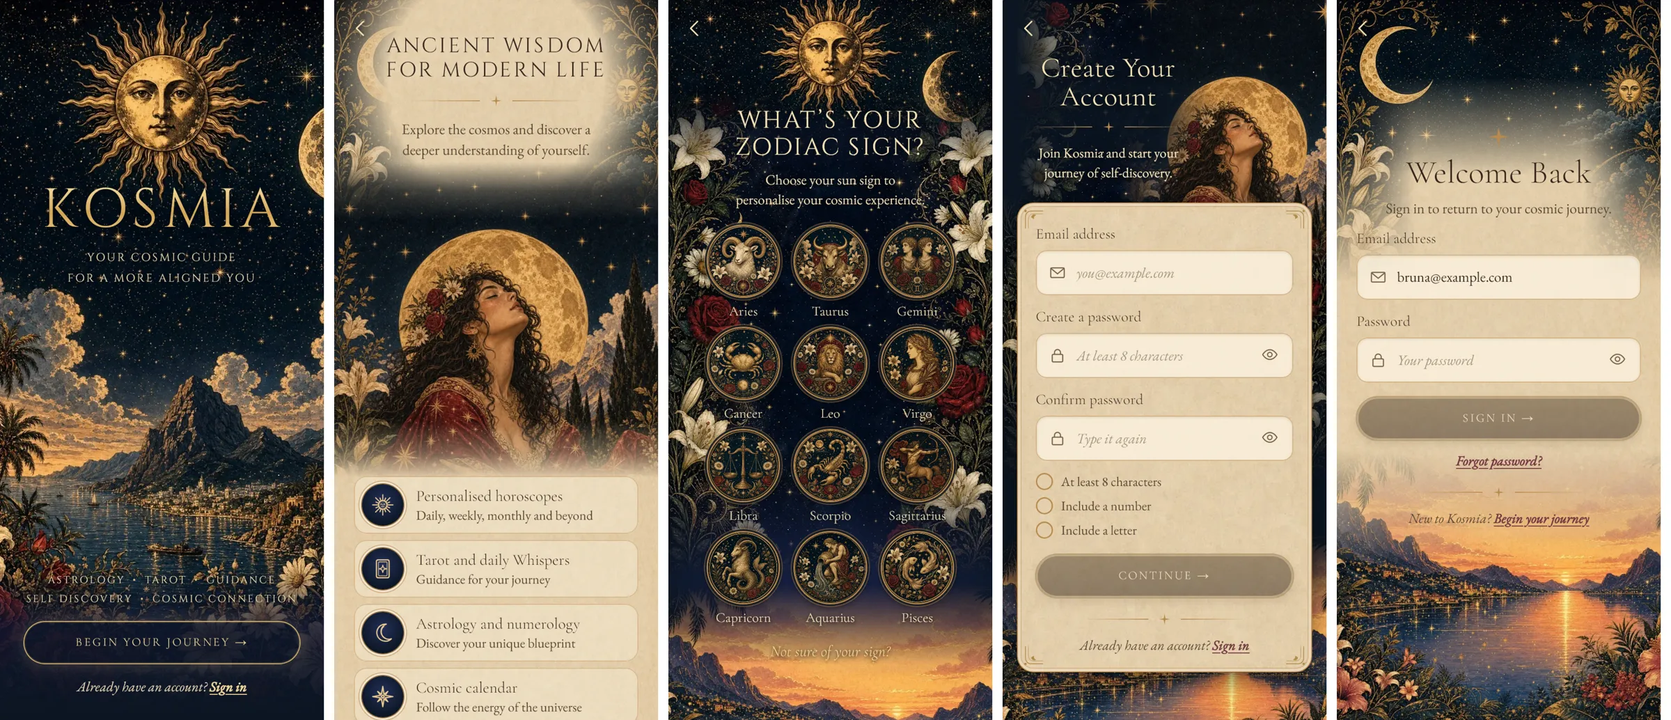
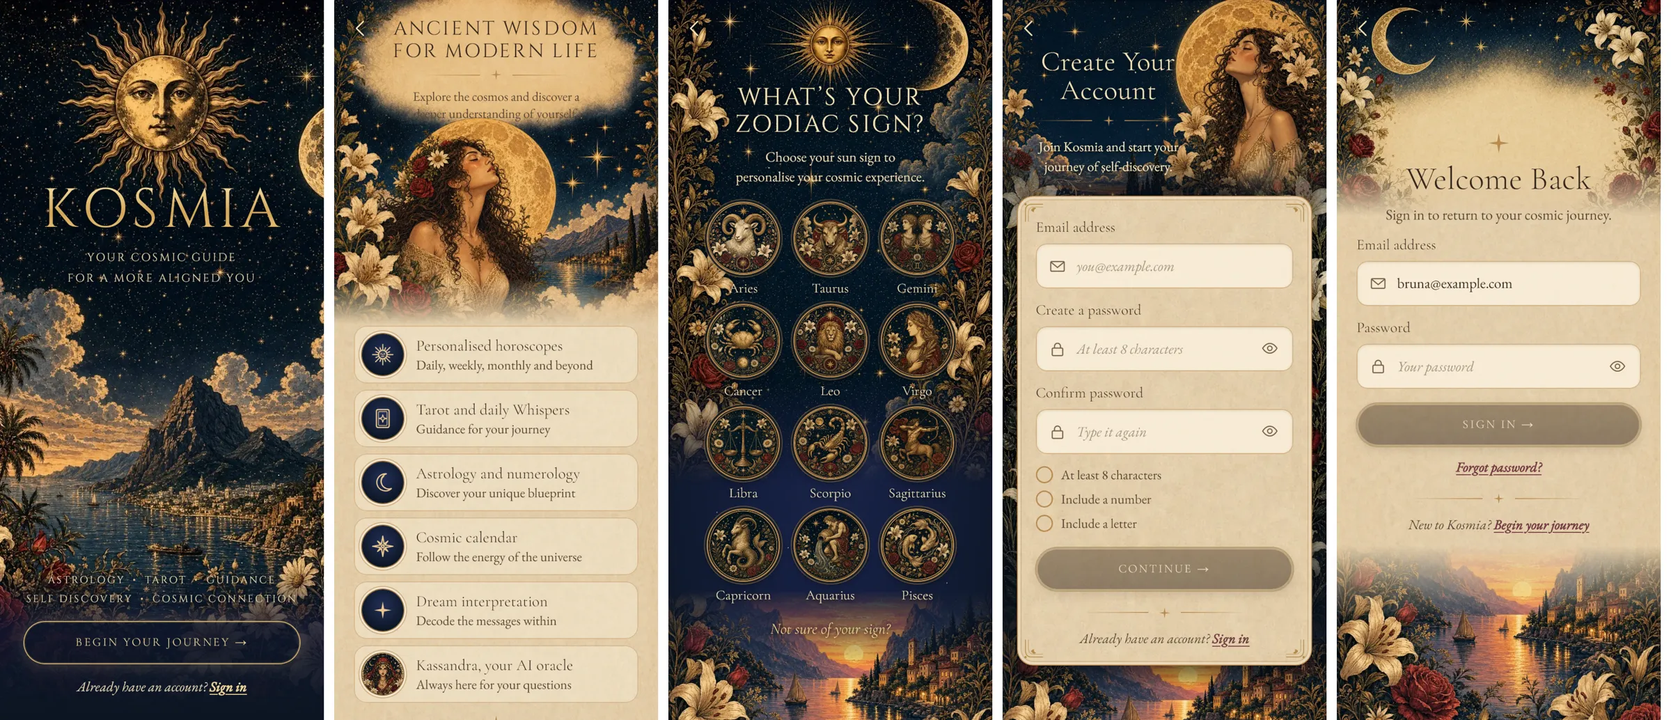
Onboarding: the five bespoke paintings after the mockups (ob-wisdom, ob-sky, ob-woman, ob-crescent, ob-sunset), guided by crops of the boards and re-encoded for phones. Ancient Wisdom opens on the woman before the moon with its title in the painted parchment cloud; the zodiac sky carries the sun, cr

diff --git a/public/art/sizes.js b/public/art/sizes.js
@@ -1,2 +1,2 @@
 /* generated by scripts/asset-manifest.mjs: [width, height, alpha] of every image under /art */
-window.KOSMIA_SIZES={"atlas/banner-calendar":[760,506,0],"atlas/banner-library":[760,506,0],"atlas/cal-scene":[1100,733,0],"atlas/ce-vignette":[480,720,0],"atlas/ds-death":[560,560,0],"atlas/ds-flying":[560,560,0],"atlas/ds-house":[560,560,0],"atlas/ds-snake":[560,560,0],"atlas/ds-water":[560,560,0],"atlas/ev-eclipse":[720,480,0],"atlas/ev-full":[720,480,0],"atlas/ev-meteor":[720,480,0],"atlas/ev-new":[720,480,0],"atlas/ev-planet":[720,480,0],"atlas/ev-quarter":[720,480,0],"atlas/ev-sun":[720,480,0],"atlas/ex-chart":[560,560,0],"atlas/ex-compat":[560,560,0],"atlas/ex-lifepath":[560,560,0],"atlas/ex-name":[560,560,0],"atlas/ex-resonance":[560,560,0],"atlas/fg-aquarius":[900,900,1],"atlas/fg-aries":[900,900,1],"atlas/fg-cancer":[900,900,1],"atlas/fg-capricorn":[900,900,1],"atlas/fg-gemini":[900,900,1],"atlas/fg-leo":[900,900,1],"atlas/fg-libra":[900,900,1],"atlas/fg-pisces":[900,900,1],"atlas/fg-sagittarius":[900,900,1],"atlas/fg-scorpio":[900,900,1],"atlas/fg-taurus":[900,900,1],"atlas/fg-virgo":[900,900,1],"atlas/hero-affinity":[1100,733,0],"atlas/hero-chart":[1100,733,0],"atlas/hero-discover":[1024,1024,0],"atlas/hero-dream":[1100,733,0],"atlas/hero-horoscope":[1024,1024,0],"atlas/hero-insights":[1100,733,0],"atlas/hero-journal":[1024,1024,0],"atlas/hero-lifepath":[1100,733,0],"atlas/hero-name":[1100,733,0],"atlas/hero-tarot":[1024,1024,0],"atlas/home-energy":[1200,800,0],"atlas/home-garden":[720,1080,0],"atlas/home-halo":[560,560,1],"atlas/home-lake":[720,1080,0],"atlas/home-sky":[1024,1536,0],"atlas/home-sun":[960,640,0],"atlas/home-vines":[720,1080,0],"atlas/ico-career":[275,320,1],"atlas/ico-family":[270,320,1],"atlas/ico-health":[281,320,1],"atlas/ico-love":[319,320,1],"atlas/ico-money":[262,320,1],"atlas/ico-overview":[282,320,1],"atlas/journal-end":[640,960,0],"atlas/kassandra-banner":[1100,733,0],"atlas/kassandra":[760,760,0],"atlas/landscape":[1100,733,0],"atlas/med-aquarius":[560,560,0],"atlas/med-aries":[560,560,0],"atlas/med-cancer":[560,560,0],"atlas/med-capricorn":[560,560,0],"atlas/med-gemini":[560,560,0],"atlas/med-leo":[560,560,0],"atlas/med-libra":[560,560,0],"atlas/med-pisces":[560,560,0],"atlas/med-sagittarius":[560,560,0],"atlas/med-scorpio":[560,560,0],"atlas/med-taurus":[560,560,0],"atlas/med-virgo":[560,560,0],"atlas/nav-discover":[314,320,1],"atlas/nav-home":[267,320,1],"atlas/nav-horoscope":[295,320,1],"atlas/nav-kassandra":[319,320,1],"atlas/nav-tarot":[270,320,1],"atlas/ne-card":[230,320,1],"atlas/ne-free":[269,320,1],"atlas/ob-final":[1200,800,0],"atlas/ob-welcome":[1024,1536,0],"atlas/owl":[1100,733,0],"atlas/plate-aquarius":[640,960,0],"atlas/plate-aries":[640,960,0],"atlas/plate-cancer":[640,960,0],"atlas/plate-capricorn":[640,960,0],"atlas/plate-gemini":[640,960,0],"atlas/plate-leo":[640,960,0],"atlas/plate-libra":[640,960,0],"atlas/plate-pisces":[640,960,0],"atlas/plate-sagittarius":[640,960,0],"atlas/plate-scorpio":[640,960,0],"atlas/plate-taurus":[640,960,0],"atlas/plate-virgo":[640,960,0],"atlas/t-history":[307,320,1],"atlas/t-journal":[315,320,1],"atlas/t-reading":[269,320,1],"atlas/t-whisper":[315,320,1],"atlas/welcome":[640,960,0],"atlas/zm-aquarius":[400,400,0],"atlas/zm-aries":[400,400,0],"atlas/zm-cancer":[400,400,0],"atlas/zm-capricorn":[400,400,0],"atlas/zm-gemini":[400,400,0],"atlas/zm-leo":[400,400,0],"atlas/zm-libra":[400,400,0],"atlas/zm-pisces":[400,400,0],"atlas/zm-sagittarius":[400,400,0],"atlas/zm-scorpio":[400,400,0],"atlas/zm-taurus":[400,400,0],"atlas/zm-virgo":[400,400,0],"cards/back":[600,900,0],"cards/cartouche":[640,640,1],"cards/crest":[144,67,1],"cards/kassandra-float":[278,300,1],"cards/kassandra":[480,480,0],"cards/ornament":[144,53,1],"cards/plaque":[1024,432,1],"cards/tarot-back":[600,900,0],"cats/aspects":[160,160,1],"cats/calendar":[160,160,1],"cats/career":[160,160,1],"cats/chart":[160,160,1],"cats/collection":[160,160,1],"cats/connections":[160,160,1],"cats/cycles":[160,160,1],"cats/deck":[160,160,1],"cats/family":[160,160,1],"cats/finance":[160,160,1],"cats/general":[160,160,1],"cats/health":[160,160,1],"cats/history":[160,160,1],"cats/insights":[160,160,1],"cats/lifepath":[160,160,1],"cats/love":[160,160,1],"cats/match":[160,160,1],"cats/moon":[160,160,1],"cats/namewithin":[160,160,1],"cats/new":[160,160,1],"cats/notifications":[160,160,1],"cats/planetary":[160,160,1],"cats/planets":[160,160,1],"cats/prefs":[160,160,1],"cats/privacy":[160,160,1],"cats/profile":[160,160,1],"cats/reflections":[160,160,1],"cats/resonance":[160,160,1],"cats/saved":[160,160,1],"cats/settings":[160,160,1],"cats/spreads":[160,160,1],"cats/today":[160,160,1],"cats/upcoming":[160,160,1],"cosmos":[768,1152,0],"deck/c1":[720,1080,0],"deck/c10":[720,1080,0],"deck/c11":[720,1080,0],"deck/c12":[720,1080,0],"deck/c13":[720,1080,0],"deck/c14":[720,1080,0],"deck/c2":[720,1080,0],"deck/c3":[720,1080,0],"deck/c4":[720,1080,0],"deck/c5":[720,1080,0],"deck/c6":[720,1080,0],"deck/c7":[720,1080,0],"deck/c8":[720,1080,0],"deck/c9":[720,1080,0],"deck/m0":[720,1080,0],"deck/m1":[720,1080,0],"deck/m10":[720,1080,0],"deck/m11":[720,1080,0],"deck/m12":[720,1080,0],"deck/m13":[720,1080,0],"deck/m14":[720,1080,0],"deck/m15":[720,1080,0],"deck/m16":[720,1080,0],"deck/m17":[720,1080,0],"deck/m18":[720,1080,0],"deck/m19":[720,1080,0],"deck/m2":[720,1080,0],"deck/m20":[720,1080,0],"deck/m21":[720,1080,0],"deck/m3":[720,1080,0],"deck/m4":[720,1080,0],"deck/m5":[720,1080,0],"deck/m6":[720,1080,0],"deck/m7":[720,1080,0],"deck/m8":[720,1080,0],"deck/m9":[720,1080,0],"deck/p1":[720,1080,0],"deck/p10":[720,1080,0],"deck/p11":[720,1080,0],"deck/p12":[720,1080,0],"deck/p13":[720,1080,0],"deck/p14":[720,1080,0],"deck/p2":[720,1080,0],"deck/p3":[720,1080,0],"deck/p4":[720,1080,0],"deck/p5":[720,1080,0],"deck/p6":[720,1080,0],"deck/p7":[720,1080,0],"deck/p8":[720,1080,0],"deck/p9":[720,1080,0],"deck/s1":[720,1080,0],"deck/s10":[720,1080,0],"deck/s11":[720,1080,0],"deck/s12":[720,1080,0],"deck/s13":[720,1080,0],"deck/s14":[720,1080,0],"deck/s2":[720,1080,0],"deck/s3":[720,1080,0],"deck/s4":[720,1080,0],"deck/s5":[720,1080,0],"deck/s6":[720,1080,0],"deck/s7":[720,1080,0],"deck/s8":[720,1080,0],"deck/s9":[720,1080,0],"deck/w1":[720,1080,0],"deck/w10":[720,1080,0],"deck/w11":[720,1080,0],"deck/w12":[720,1080,0],"deck/w13":[720,1080,0],"deck/w14":[720,1080,0],"deck/w2":[720,1080,0],"deck/w3":[720,1080,0],"deck/w4":[720,1080,0],"deck/w5":[720,1080,0],"deck/w6":[720,1080,0],"deck/w7":[720,1080,0],"deck/w8":[720,1080,0],"deck/w9":[720,1080,0],"frame-paper":[944,600,0],"frame":[1024,1536,0],"icons/aquarius":[256,256,1],"icons/aries":[256,256,1],"icons/cancer":[256,256,1],"icons/capricorn":[256,256,1],"icons/gemini":[256,256,1],"icons/leo":[256,256,1],"icons/libra":[256,256,1],"icons/pisces":[256,256,1],"icons/sagittarius":[256,256,1],"icons/scorpio":[256,256,1],"icons/taurus":[256,256,1],"icons/virgo":[256,256,1],"moons/first-quarter":[420,420,1],"moons/full-moon":[420,420,1],"moons/last-quarter":[420,420,1],"moons/new-moon":[420,420,1],"moons/waning-crescent":[420,420,1],"moons/waning-gibbous":[420,420,1],"moons/waxing-crescent":[420,420,1],"moons/waxing-gibbous":[420,420,1],"nav/calendar":[128,128,1],"nav/chart":[128,128,1],"nav/fortune":[128,128,1],"nav/home":[128,128,1],"nav/horoscopes":[128,128,1],"nav/love":[128,128,1],"nav/tarot":[128,128,1],"nav/universe":[128,128,1],"onboarding-paper":[1024,234,0],"onboarding":[1024,1536,0],"pages/compass-rose":[1024,1536,0],"pages/cover":[1024,1536,0],"pages/edge-h":[768,512,0],"pages/edge-v":[512,768,0],"pages/moon-phases":[1024,1536,0],"pages/night-sky":[1024,1536,0],"pages/pressed-roses":[1024,1536,0],"pages/sleeping-moon":[1024,1536,0],"pages/sun-face":[1024,1536,0],"plates/astro":[1024,683,0],"plates/connections":[1024,683,0],"plates/cycles":[1024,683,0],"plates/events":[1024,683,0],"plates/ins-astro":[1024,683,0],"plates/ins-numbers":[1024,683,0],"plates/ins-oracle":[1024,683,0],"plates/lifepath":[1024,683,0],"plates/locket":[1024,683,0],"plates/moon":[1024,683,0],"plates/name":[1024,683,0],"plates/natal":[1024,683,0],"plates/numbers":[1024,683,0],"plates/oracle":[1024,683,0],"plates/orrery":[1024,683,0],"plates/readings":[1024,683,0],"plates/sky":[1024,683,0],"plates/starmap":[1024,683,0],"plates/sunmoon":[1024,683,0],"plates/synastry":[1024,683,0],"scenes/aquarius":[768,1152,0],"scenes/aries":[768,1152,0],"scenes/cancer":[768,1152,0],"scenes/capricorn":[768,1152,0],"scenes/gemini":[768,1152,0],"scenes/leo":[768,1152,0],"scenes/libra":[768,1152,0],"scenes/pisces":[768,1152,0],"scenes/sagittarius":[768,1152,0],"scenes/scorpio":[768,1152,0],"scenes/taurus":[768,1152,0],"scenes/virgo":[768,1152,0],"spreads/career":[192,192,1],"spreads/celtic":[192,192,1],"spreads/love":[192,192,1],"spreads/one":[192,192,1],"spreads/ppf":[192,192,1],"spreads/scg":[192,192,1],"whispers/butterfly":[720,1080,0],"whispers/clear-crystal":[720,1080,0],"whispers/crossroads":[720,1080,0],"whispers/daily-bread":[720,1080,0],"whispers/dawn-chorus":[720,1080,0],"whispers/deep-roots":[720,1080,0],"whispers/distant-ship":[720,1080,0],"whispers/fairy-ring":[720,1080,0],"whispers/first-light":[720,1080,0],"whispers/gentle-rain":[720,1080,0],"whispers/golden-hour":[720,1080,0],"whispers/golden-key":[720,1080,0],"whispers/hidden-garden":[720,1080,0],"whispers/inner-key":[720,1080,0],"whispers/late-bloom":[720,1080,0],"whispers/lighthouse":[720,1080,0],"whispers/music-box":[720,1080,0],"whispers/nightingale":[720,1080,0],"whispers/north-star":[720,1080,0],"whispers/old-tree":[720,1080,0],"whispers/open-door":[720,1080,0],"whispers/open-path":[720,1080,0],"whispers/quiet-harvest":[720,1080,0],"whispers/quiet-moon":[720,1080,0],"whispers/returning-tide":[720,1080,0],"whispers/rising-sun":[720,1080,0],"whispers/sacred-flame":[720,1080,0],"whispers/sanctuary":[720,1080,0],"whispers/sealed-letter":[720,1080,0],"whispers/silver-thread":[720,1080,0],"whispers/snow-tracks":[720,1080,0],"whispers/stargazer":[720,1080,0],"whispers/steady-star":[720,1080,0],"whispers/stepping-stones":[720,1080,0],"whispers/still-water":[720,1080,0],"whispers/the-anchor":[720,1080,0],"whispers/the-aurora":[720,1080,0],"whispers/the-balloon":[720,1080,0],"whispers/the-bell":[720,1080,0],"whispers/the-bench":[720,1080,0],"whispers/the-birdcage":[720,1080,0],"whispers/the-blossom":[720,1080,0],"whispers/the-bridge":[720,1080,0],"whispers/the-cairn":[720,1080,0],"whispers/the-chalice":[720,1080,0],"whispers/the-comet":[720,1080,0],"whispers/the-compass":[720,1080,0],"whispers/the-dandelion":[720,1080,0],"whispers/the-eclipse":[720,1080,0],"whispers/the-ember":[720,1080,0],"whispers/the-feather":[720,1080,0],"whispers/the-fox":[720,1080,0],"whispers/the-frost":[720,1080,0],"whispers/the-hare":[720,1080,0],"whispers/the-harp":[720,1080,0],"whispers/the-hearth":[720,1080,0],"whispers/the-hedgerow":[720,1080,0],"whispers/the-heron":[720,1080,0],"whispers/the-hive":[720,1080,0],"whispers/the-hourglass":[720,1080,0],"whispers/the-kingfisher":[720,1080,0],"whispers/the-kite":[720,1080,0],"whispers/the-labyrinth":[720,1080,0],"whispers/the-lantern":[720,1080,0],"whispers/the-lotus":[720,1080,0],"whispers/the-mirror":[720,1080,0],"whispers/the-moth":[720,1080,0],"whispers/the-mountain":[720,1080,0],"whispers/the-nautilus":[720,1080,0],"whispers/the-nest":[720,1080,0],"whispers/the-orchard":[720,1080,0],"whispers/the-owl":[720,1080,0],"whispers/the-phoenix":[720,1080,0],"whispers/the-pinecone":[720,1080,0],"whispers/the-pomegranate":[720,1080,0],"whispers/the-river":[720,1080,0],"whispers/the-scales":[720,1080,0],"whispers/the-seed":[720,1080,0],"whispers/the-snail":[720,1080,0],"whispers/the-snowdrop":[720,1080,0],"whispers/the-spiral":[720,1080,0],"whispers/the-stag":[720,1080,0],"whispers/the-stile":[720,1080,0],"whispers/the-sundial":[720,1080,0],"whispers/the-swan":[720,1080,0],"whispers/the-swing":[720,1080,0],"whispers/the-tapestry":[720,1080,0],"whispers/the-waterfall":[720,1080,0],"whispers/the-weaver":[720,1080,0],"whispers/the-web":[720,1080,0],"whispers/the-well":[720,1080,0],"whispers/the-whale":[720,1080,0],"whispers/the-willow":[720,1080,0],"whispers/the-wind":[720,1080,0],"whispers/turning-wheel":[720,1080,0],"whispers/two-moons":[720,1080,0],"whispers/watchful-eye":[720,1080,0],"whispers/white-lily":[720,1080,0],"whispers/wild-geese":[720,1080,0],"whispers/wild-horse":[720,1080,0]};
+window.KOSMIA_SIZES={"atlas/banner-calendar":[760,506,0],"atlas/banner-library":[760,506,0],"atlas/cal-scene":[1100,733,0],"atlas/ce-vignette":[480,720,0],"atlas/ds-death":[560,560,0],"atlas/ds-flying":[560,560,0],"atlas/ds-house":[560,560,0],"atlas/ds-snake":[560,560,0],"atlas/ds-water":[560,560,0],"atlas/ev-eclipse":[720,480,0],"atlas/ev-full":[720,480,0],"atlas/ev-meteor":[720,480,0],"atlas/ev-new":[720,480,0],"atlas/ev-planet":[720,480,0],"atlas/ev-quarter":[720,480,0],"atlas/ev-sun":[720,480,0],"atlas/ex-chart":[560,560,0],"atlas/ex-compat":[560,560,0],"atlas/ex-lifepath":[560,560,0],"atlas/ex-name":[560,560,0],"atlas/ex-resonance":[560,560,0],"atlas/fg-aquarius":[900,900,1],"atlas/fg-aries":[900,900,1],"atlas/fg-cancer":[900,900,1],"atlas/fg-capricorn":[900,900,1],"atlas/fg-gemini":[900,900,1],"atlas/fg-leo":[900,900,1],"atlas/fg-libra":[900,900,1],"atlas/fg-pisces":[900,900,1],"atlas/fg-sagittarius":[900,900,1],"atlas/fg-scorpio":[900,900,1],"atlas/fg-taurus":[900,900,1],"atlas/fg-virgo":[900,900,1],"atlas/hero-affinity":[1100,733,0],"atlas/hero-chart":[1100,733,0],"atlas/hero-discover":[1024,1024,0],"atlas/hero-dream":[1100,733,0],"atlas/hero-horoscope":[1024,1024,0],"atlas/hero-insights":[1100,733,0],"atlas/hero-journal":[1024,1024,0],"atlas/hero-lifepath":[1100,733,0],"atlas/hero-name":[1100,733,0],"atlas/hero-tarot":[1024,1024,0],"atlas/home-energy":[1200,800,0],"atlas/home-garden":[720,1080,0],"atlas/home-halo":[560,560,1],"atlas/home-lake":[720,1080,0],"atlas/home-sky":[1024,1536,0],"atlas/home-sun":[960,640,0],"atlas/home-vines":[720,1080,0],"atlas/ico-career":[275,320,1],"atlas/ico-family":[270,320,1],"atlas/ico-health":[281,320,1],"atlas/ico-love":[319,320,1],"atlas/ico-money":[262,320,1],"atlas/ico-overview":[282,320,1],"atlas/journal-end":[640,960,0],"atlas/kassandra-banner":[1100,733,0],"atlas/kassandra":[760,760,0],"atlas/landscape":[1100,733,0],"atlas/med-aquarius":[560,560,0],"atlas/med-aries":[560,560,0],"atlas/med-cancer":[560,560,0],"atlas/med-capricorn":[560,560,0],"atlas/med-gemini":[560,560,0],"atlas/med-leo":[560,560,0],"atlas/med-libra":[560,560,0],"atlas/med-pisces":[560,560,0],"atlas/med-sagittarius":[560,560,0],"atlas/med-scorpio":[560,560,0],"atlas/med-taurus":[560,560,0],"atlas/med-virgo":[560,560,0],"atlas/nav-discover":[314,320,1],"atlas/nav-home":[267,320,1],"atlas/nav-horoscope":[295,320,1],"atlas/nav-kassandra":[319,320,1],"atlas/nav-tarot":[270,320,1],"atlas/ne-card":[230,320,1],"atlas/ne-free":[269,320,1],"atlas/ob-crescent":[1200,800,0],"atlas/ob-final":[1200,800,0],"atlas/ob-sky":[900,1350,0],"atlas/ob-sunset":[960,1440,0],"atlas/ob-welcome":[1024,1536,0],"atlas/ob-wisdom":[1024,1024,0],"atlas/ob-woman":[1200,800,0],"atlas/owl":[1100,733,0],"atlas/plate-aquarius":[640,960,0],"atlas/plate-aries":[640,960,0],"atlas/plate-cancer":[640,960,0],"atlas/plate-capricorn":[640,960,0],"atlas/plate-gemini":[640,960,0],"atlas/plate-leo":[640,960,0],"atlas/plate-libra":[640,960,0],"atlas/plate-pisces":[640,960,0],"atlas/plate-sagittarius":[640,960,0],"atlas/plate-scorpio":[640,960,0],"atlas/plate-taurus":[640,960,0],"atlas/plate-virgo":[640,960,0],"atlas/t-history":[307,320,1],"atlas/t-journal":[315,320,1],"atlas/t-reading":[269,320,1],"atlas/t-whisper":[315,320,1],"atlas/welcome":[640,960,0],"atlas/zm-aquarius":[400,400,0],"atlas/zm-aries":[400,400,0],"atlas/zm-cancer":[400,400,0],"atlas/zm-capricorn":[400,400,0],"atlas/zm-gemini":[400,400,0],"atlas/zm-leo":[400,400,0],"atlas/zm-libra":[400,400,0],"atlas/zm-pisces":[400,400,0],"atlas/zm-sagittarius":[400,400,0],"atlas/zm-scorpio":[400,400,0],"atlas/zm-taurus":[400,400,0],"atlas/zm-virgo":[400,400,0],"cards/back":[600,900,0],"cards/cartouche":[640,640,1],"cards/crest":[144,67,1],"cards/kassandra-float":[278,300,1],"cards/kassandra":[480,480,0],"cards/ornament":[144,53,1],"cards/plaque":[1024,432,1],"cards/tarot-back":[600,900,0],"cats/aspects":[160,160,1],"cats/calendar":[160,160,1],"cats/career":[160,160,1],"cats/chart":[160,160,1],"cats/collection":[160,160,1],"cats/connections":[160,160,1],"cats/cycles":[160,160,1],"cats/deck":[160,160,1],"cats/family":[160,160,1],"cats/finance":[160,160,1],"cats/general":[160,160,1],"cats/health":[160,160,1],"cats/history":[160,160,1],"cats/insights":[160,160,1],"cats/lifepath":[160,160,1],"cats/love":[160,160,1],"cats/match":[160,160,1],"cats/moon":[160,160,1],"cats/namewithin":[160,160,1],"cats/new":[160,160,1],"cats/notifications":[160,160,1],"cats/planetary":[160,160,1],"cats/planets":[160,160,1],"cats/prefs":[160,160,1],"cats/privacy":[160,160,1],"cats/profile":[160,160,1],"cats/reflections":[160,160,1],"cats/resonance":[160,160,1],"cats/saved":[160,160,1],"cats/settings":[160,160,1],"cats/spreads":[160,160,1],"cats/today":[160,160,1],"cats/upcoming":[160,160,1],"cosmos":[768,1152,0],"deck/c1":[720,1080,0],"deck/c10":[720,1080,0],"deck/c11":[720,1080,0],"deck/c12":[720,1080,0],"deck/c13":[720,1080,0],"deck/c14":[720,1080,0],"deck/c2":[720,1080,0],"deck/c3":[720,1080,0],"deck/c4":[720,1080,0],"deck/c5":[720,1080,0],"deck/c6":[720,1080,0],"deck/c7":[720,1080,0],"deck/c8":[720,1080,0],"deck/c9":[720,1080,0],"deck/m0":[720,1080,0],"deck/m1":[720,1080,0],"deck/m10":[720,1080,0],"deck/m11":[720,1080,0],"deck/m12":[720,1080,0],"deck/m13":[720,1080,0],"deck/m14":[720,1080,0],"deck/m15":[720,1080,0],"deck/m16":[720,1080,0],"deck/m17":[720,1080,0],"deck/m18":[720,1080,0],"deck/m19":[720,1080,0],"deck/m2":[720,1080,0],"deck/m20":[720,1080,0],"deck/m21":[720,1080,0],"deck/m3":[720,1080,0],"deck/m4":[720,1080,0],"deck/m5":[720,1080,0],"deck/m6":[720,1080,0],"deck/m7":[720,1080,0],"deck/m8":[720,1080,0],"deck/m9":[720,1080,0],"deck/p1":[720,1080,0],"deck/p10":[720,1080,0],"deck/p11":[720,1080,0],"deck/p12":[720,1080,0],"deck/p13":[720,1080,0],"deck/p14":[720,1080,0],"deck/p2":[720,1080,0],"deck/p3":[720,1080,0],"deck/p4":[720,1080,0],"deck/p5":[720,1080,0],"deck/p6":[720,1080,0],"deck/p7":[720,1080,0],"deck/p8":[720,1080,0],"deck/p9":[720,1080,0],"deck/s1":[720,1080,0],"deck/s10":[720,1080,0],"deck/s11":[720,1080,0],"deck/s12":[720,1080,0],"deck/s13":[720,1080,0],"deck/s14":[720,1080,0],"deck/s2":[720,1080,0],"deck/s3":[720,1080,0],"deck/s4":[720,1080,0],"deck/s5":[720,1080,0],"deck/s6":[720,1080,0],"deck/s7":[720,1080,0],"deck/s8":[720,1080,0],"deck/s9":[720,1080,0],"deck/w1":[720,1080,0],"deck/w10":[720,1080,0],"deck/w11":[720,1080,0],"deck/w12":[720,1080,0],"deck/w13":[720,1080,0],"deck/w14":[720,1080,0],"deck/w2":[720,1080,0],"deck/w3":[720,1080,0],"deck/w4":[720,1080,0],"deck/w5":[720,1080,0],"deck/w6":[720,1080,0],"deck/w7":[720,1080,0],"deck/w8":[720,1080,0],"deck/w9":[720,1080,0],"frame-paper":[944,600,0],"frame":[1024,1536,0],"icons/aquarius":[256,256,1],"icons/aries":[256,256,1],"icons/cancer":[256,256,1],"icons/capricorn":[256,256,1],"icons/gemini":[256,256,1],"icons/leo":[256,256,1],"icons/libra":[256,256,1],"icons/pisces":[256,256,1],"icons/sagittarius":[256,256,1],"icons/scorpio":[256,256,1],"icons/taurus":[256,256,1],"icons/virgo":[256,256,1],"moons/first-quarter":[420,420,1],"moons/full-moon":[420,420,1],"moons/last-quarter":[420,420,1],"moons/new-moon":[420,420,1],"moons/waning-crescent":[420,420,1],"moons/waning-gibbous":[420,420,1],"moons/waxing-crescent":[420,420,1],"moons/waxing-gibbous":[420,420,1],"nav/calendar":[128,128,1],"nav/chart":[128,128,1],"nav/fortune":[128,128,1],"nav/home":[128,128,1],"nav/horoscopes":[128,128,1],"nav/love":[128,128,1],"nav/tarot":[128,128,1],"nav/universe":[128,128,1],"onboarding-paper":[1024,234,0],"onboarding":[1024,1536,0],"pages/compass-rose":[1024,1536,0],"pages/cover":[1024,1536,0],"pages/edge-h":[768,512,0],"pages/edge-v":[512,768,0],"pages/moon-phases":[1024,1536,0],"pages/night-sky":[1024,1536,0],"pages/pressed-roses":[1024,1536,0],"pages/sleeping-moon":[1024,1536,0],"pages/sun-face":[1024,1536,0],"plates/astro":[1024,683,0],"plates/connections":[1024,683,0],"plates/cycles":[1024,683,0],"plates/events":[1024,683,0],"plates/ins-astro":[1024,683,0],"plates/ins-numbers":[1024,683,0],"plates/ins-oracle":[1024,683,0],"plates/lifepath":[1024,683,0],"plates/locket":[1024,683,0],"plates/moon":[1024,683,0],"plates/name":[1024,683,0],"plates/natal":[1024,683,0],"plates/numbers":[1024,683,0],"plates/oracle":[1024,683,0],"plates/orrery":[1024,683,0],"plates/readings":[1024,683,0],"plates/sky":[1024,683,0],"plates/starmap":[1024,683,0],"plates/sunmoon":[1024,683,0],"plates/synastry":[1024,683,0],"scenes/aquarius":[768,1152,0],"scenes/aries":[768,1152,0],"scenes/cancer":[768,1152,0],"scenes/capricorn":[768,1152,0],"scenes/gemini":[768,1152,0],"scenes/leo":[768,1152,0],"scenes/libra":[768,1152,0],"scenes/pisces":[768,1152,0],"scenes/sagittarius":[768,1152,0],"scenes/scorpio":[768,1152,0],"scenes/taurus":[768,1152,0],"scenes/virgo":[768,1152,0],"spreads/career":[192,192,1],"spreads/celtic":[192,192,1],"spreads/love":[192,192,1],"spreads/one":[192,192,1],"spreads/ppf":[192,192,1],"spreads/scg":[192,192,1],"whispers/butterfly":[720,1080,0],"whispers/clear-crystal":[720,1080,0],"whispers/crossroads":[720,1080,0],"whispers/daily-bread":[720,1080,0],"whispers/dawn-chorus":[720,1080,0],"whispers/deep-roots":[720,1080,0],"whispers/distant-ship":[720,1080,0],"whispers/fairy-ring":[720,1080,0],"whispers/first-light":[720,1080,0],"whispers/gentle-rain":[720,1080,0],"whispers/golden-hour":[720,1080,0],"whispers/golden-key":[720,1080,0],"whispers/hidden-garden":[720,1080,0],"whispers/inner-key":[720,1080,0],"whispers/late-bloom":[720,1080,0],"whispers/lighthouse":[720,1080,0],"whispers/music-box":[720,1080,0],"whispers/nightingale":[720,1080,0],"whispers/north-star":[720,1080,0],"whispers/old-tree":[720,1080,0],"whispers/open-door":[720,1080,0],"whispers/open-path":[720,1080,0],"whispers/quiet-harvest":[720,1080,0],"whispers/quiet-moon":[720,1080,0],"whispers/returning-tide":[720,1080,0],"whispers/rising-sun":[720,1080,0],"whispers/sacred-flame":[720,1080,0],"whispers/sanctuary":[720,1080,0],"whispers/sealed-letter":[720,1080,0],"whispers/silver-thread":[720,1080,0],"whispers/snow-tracks":[720,1080,0],"whispers/stargazer":[720,1080,0],"whispers/steady-star":[720,1080,0],"whispers/stepping-stones":[720,1080,0],"whispers/still-water":[720,1080,0],"whispers/the-anchor":[720,1080,0],"whispers/the-aurora":[720,1080,0],"whispers/the-balloon":[720,1080,0],"whispers/the-bell":[720,1080,0],"whispers/the-bench":[720,1080,0],"whispers/the-birdcage":[720,1080,0],"whispers/the-blossom":[720,1080,0],"whispers/the-bridge":[720,1080,0],"whispers/the-cairn":[720,1080,0],"whispers/the-chalice":[720,1080,0],"whispers/the-comet":[720,1080,0],"whispers/the-compass":[720,1080,0],"whispers/the-dandelion":[720,1080,0],"whispers/the-eclipse":[720,1080,0],"whispers/the-ember":[720,1080,0],"whispers/the-feather":[720,1080,0],"whispers/the-fox":[720,1080,0],"whispers/the-frost":[720,1080,0],"whispers/the-hare":[720,1080,0],"whispers/the-harp":[720,1080,0],"whispers/the-hearth":[720,1080,0],"whispers/the-hedgerow":[720,1080,0],"whispers/the-heron":[720,1080,0],"whispers/the-hive":[720,1080,0],"whispers/the-hourglass":[720,1080,0],"whispers/the-kingfisher":[720,1080,0],"whispers/the-kite":[720,1080,0],"whispers/the-labyrinth":[720,1080,0],"whispers/the-lantern":[720,1080,0],"whispers/the-lotus":[720,1080,0],"whispers/the-mirror":[720,1080,0],"whispers/the-moth":[720,1080,0],"whispers/the-mountain":[720,1080,0],"whispers/the-nautilus":[720,1080,0],"whispers/the-nest":[720,1080,0],"whispers/the-orchard":[720,1080,0],"whispers/the-owl":[720,1080,0],"whispers/the-phoenix":[720,1080,0],"whispers/the-pinecone":[720,1080,0],"whispers/the-pomegranate":[720,1080,0],"whispers/the-river":[720,1080,0],"whispers/the-scales":[720,1080,0],"whispers/the-seed":[720,1080,0],"whispers/the-snail":[720,1080,0],"whispers/the-snowdrop":[720,1080,0],"whispers/the-spiral":[720,1080,0],"whispers/the-stag":[720,1080,0],"whispers/the-stile":[720,1080,0],"whispers/the-sundial":[720,1080,0],"whispers/the-swan":[720,1080,0],"whispers/the-swing":[720,1080,0],"whispers/the-tapestry":[720,1080,0],"whispers/the-waterfall":[720,1080,0],"whispers/the-weaver":[720,1080,0],"whispers/the-web":[720,1080,0],"whispers/the-well":[720,1080,0],"whispers/the-whale":[720,1080,0],"whispers/the-willow":[720,1080,0],"whispers/the-wind":[720,1080,0],"whispers/turning-wheel":[720,1080,0],"whispers/two-moons":[720,1080,0],"whispers/watchful-eye":[720,1080,0],"whispers/white-lily":[720,1080,0],"whispers/wild-geese":[720,1080,0],"whispers/wild-horse":[720,1080,0]};

diff --git a/public/styles.css b/public/styles.css
@@ -1279,14 +1279,11 @@ body.has-nav:not([data-sec=home]) #app::after{content:'';position:fixed;z-index:
 .obg{position:absolute;inset:0;z-index:-1;overflow:hidden;pointer-events:none}
 .obl{position:absolute;left:0;display:block;width:100%;max-width:none;height:auto}
 /* the sunset: its sky dissolves into the page above it, never a picture with edges */
-.obl-foot{bottom:0;left:-12.5%;width:125%;-webkit-mask-image:linear-gradient(transparent,rgba(0,0,0,.35) 16%,#000 42%);mask-image:linear-gradient(transparent,rgba(0,0,0,.35) 16%,#000 42%)}
-.ob-dark .obl-foot{-webkit-mask-image:linear-gradient(transparent,rgba(0,0,0,.4) 12%,#000 30%);mask-image:linear-gradient(transparent,rgba(0,0,0,.4) 12%,#000 30%)}
+.obl-foot{bottom:0;height:min(96vw,460px);object-fit:cover;object-position:50% 100%;-webkit-mask-image:linear-gradient(transparent 12%,rgba(0,0,0,.45) 22%,#000 36%);mask-image:linear-gradient(transparent 12%,rgba(0,0,0,.45) 22%,#000 36%)}
+.ob-dark .obl-foot{-webkit-mask-image:linear-gradient(transparent 6%,rgba(0,0,0,.45) 16%,#000 30%);mask-image:linear-gradient(transparent 6%,rgba(0,0,0,.45) 16%,#000 30%)}
 /* the crown of night over a parchment page: the sky and its crescent across the top, the flowers down the sides,
    both melting into the paper */
-.obl-crown{top:0;
- -webkit-mask-image:linear-gradient(#000 16%,transparent 36%),linear-gradient(90deg,#000,rgba(0,0,0,.85) 9%,transparent 24%,transparent 76%,rgba(0,0,0,.85) 91%,#000),linear-gradient(#000 30%,transparent 58%);
- mask-image:linear-gradient(#000 16%,transparent 36%),linear-gradient(90deg,#000,rgba(0,0,0,.85) 9%,transparent 24%,transparent 76%,rgba(0,0,0,.85) 91%,#000),linear-gradient(#000 30%,transparent 58%);
- -webkit-mask-composite:source-over,source-in;mask-composite:add,intersect}
+.obl-crown{top:0;-webkit-mask-image:linear-gradient(#000 72%,transparent);mask-image:linear-gradient(#000 72%,transparent)}
 .ob-rule{display:flex;align-items:center;gap:10px;width:min(64%,250px);color:var(--k-gold);flex:none}
 .ob-rule::before,.ob-rule::after{content:'';flex:1;height:1px;background:linear-gradient(90deg,transparent,currentColor)}
 .ob-rule::after{background:linear-gradient(90deg,currentColor,transparent)}
@@ -1297,13 +1294,13 @@ body.has-nav:not([data-sec=home]) #app::after{content:'';position:fixed;z-index:
 
 /* 1. Ancient Wisdom: the title in a cloud of parchment among the night's corners, the woman before the moon in a
    window with no edges, the six gifts as a quiet manuscript list, Let's Begin, the sunset */
-.ob-intro{gap:12px;padding-bottom:calc(env(safe-area-inset-bottom,0px) + min(46vw,220px))}
-.ob-intro .obl-crown{-webkit-mask-image:radial-gradient(ellipse 64% 44% at 50% 17%,transparent 52%,rgba(0,0,0,.7) 74%,#000 90%),linear-gradient(#000 30%,transparent 52%);mask-image:radial-gradient(ellipse 64% 44% at 50% 17%,transparent 52%,rgba(0,0,0,.7) 74%,#000 90%),linear-gradient(#000 30%,transparent 52%);-webkit-mask-composite:source-in;mask-composite:intersect}
-.ob-intro h1.cz{margin-top:14px;font-family:var(--font-display);font-size:clamp(1.35rem,6.4vw,1.75rem);line-height:1.2;letter-spacing:.06em;text-transform:uppercase;font-weight:700;color:var(--k-ink);text-shadow:0 0 12px rgba(var(--k-surface-hi-rgb),.9)}
-.ob-intro .ob-lead{max-width:320px;color:var(--k-ink-soft)}
-.obi-art{width:calc(100% + 44px);margin:-10px 0 -14px;aspect-ratio:390/380;overflow:hidden}
-.obi-i{display:block;width:100%;height:100%;object-fit:cover;object-position:50% 52%;
- -webkit-mask-image:linear-gradient(transparent,rgba(0,0,0,.7) 9%,#000 18%,#000 82%,rgba(0,0,0,.6) 92%,transparent);mask-image:linear-gradient(transparent,rgba(0,0,0,.7) 9%,#000 18%,#000 82%,rgba(0,0,0,.6) 92%,transparent)}
+.ob-intro{gap:12px;padding-top:0;padding-bottom:calc(env(safe-area-inset-bottom,0px) + min(88vw,420px))}
+.obi-top{position:relative;width:calc(100% + 44px);margin:0 -22px -10px;container-type:inline-size}
+.obi-w{display:block;width:100%;height:auto;-webkit-mask-image:linear-gradient(#000 86%,transparent);mask-image:linear-gradient(#000 86%,transparent)}
+.obi-head{position:absolute;left:13%;right:13%;top:calc(env(safe-area-inset-top,0px) + 4.5cqw);height:34cqw;display:flex;flex-direction:column;align-items:center;justify-content:center;gap:1.6cqw}
+.ob-intro h1.cz{margin:0;font-family:var(--font-display);font-size:min(6cqw,1.75rem);line-height:1.18;letter-spacing:.06em;text-transform:uppercase;font-weight:700;color:var(--k-ink)}
+.ob-intro .ob-lead{max-width:none;font-size:min(4cqw,1.05rem);line-height:1.38;color:var(--k-ink-soft)}
+.ob-intro .obi-head .ob-rule{width:62%}
 .obi-list{list-style:none;margin:0;padding:0;width:100%;max-width:400px;display:flex;flex-direction:column;gap:7px}
 .obi-list li{display:grid;grid-template-columns:46px 1fr;gap:14px;align-items:center;padding:8px 14px 8px 8px;border:1px solid rgba(var(--k-gold-rgb),.45);border-radius:14px;background:rgba(var(--k-surface-hi-rgb),.38);text-align:left;line-height:1.25}
 .obi-list li>span:last-child{display:flex;flex-direction:column;gap:2px;min-width:0}
@@ -1316,9 +1313,8 @@ body.has-nav:not([data-sec=home]) #app::after{content:'';position:fixed;z-index:
 
 /* 2. The sign: the sun and the crescent above, the night with its flowers, the twelve medallions three to a row, the
    sunset at the foot. A tap chooses and goes on */
-.ob-sign{gap:10px;padding-top:calc(env(safe-area-inset-top,0px) + min(33vw,158px));padding-bottom:calc(env(safe-area-inset-bottom,0px) + min(58vw,280px))}
-.ob-sign .obl-top{top:-5vw;-webkit-mask-image:linear-gradient(#000 26%,transparent 40%);mask-image:linear-gradient(#000 26%,transparent 40%)}
-.ob-sign .obl-mid{top:min(28vw,135px);-webkit-mask-image:linear-gradient(transparent,#000 16%,#000 80%,transparent);mask-image:linear-gradient(transparent,#000 16%,#000 80%,transparent)}
+.ob-sign{gap:10px;padding-top:calc(env(safe-area-inset-top,0px) + min(26vw,125px));padding-bottom:calc(env(safe-area-inset-bottom,0px) + min(74vw,355px))}
+.ob-sign .obl-top{top:0;-webkit-mask-image:linear-gradient(#000 78%,transparent);mask-image:linear-gradient(#000 78%,transparent)}
 .ob-sign h1{font-family:var(--font-display);font-weight:600;font-size:clamp(1.5rem,7.4vw,1.95rem);line-height:1.15;letter-spacing:.05em;text-transform:uppercase;color:#F3E2B4;text-shadow:0 2px 10px rgba(0,0,0,.8)}
 .ob-sign .ob-lead{max-width:300px;text-wrap:balance;font-size:.98rem;color:#E9D9B4;text-shadow:0 1px 6px #000}
 .zgrid{display:grid;grid-template-columns:repeat(3,1fr);gap:8px clamp(14px,5vw,24px);width:min(86%,370px);margin:8px auto 0}
@@ -1338,14 +1334,10 @@ body.has-nav:not([data-sec=home]) #app::after{content:'';position:fixed;z-index:
 
 /* 3. The account: the night with the woman before her moon at the right, the title at the left, the parchment form
    rising over her, the sunset beneath it */
-.ob-acct{gap:0;padding:calc(env(safe-area-inset-top,0px) + 16px) 16px calc(env(safe-area-inset-bottom,0px) + min(40vw,190px))}
-.ob-acct .obl-top{top:0;
- -webkit-mask-image:linear-gradient(#000 70%,transparent),linear-gradient(90deg,transparent 4%,#000 28%),linear-gradient(transparent 40%,#000 58%);
- mask-image:linear-gradient(#000 70%,transparent),linear-gradient(90deg,transparent 4%,#000 28%),linear-gradient(transparent 40%,#000 58%);
- -webkit-mask-composite:source-in,source-over;mask-composite:intersect,add}
-.obl-woman{top:-12vw;left:auto;right:-10%;width:74%;
- -webkit-mask-image:linear-gradient(90deg,transparent,#000 28%),linear-gradient(#000 64%,transparent 86%);mask-image:linear-gradient(90deg,transparent,#000 28%),linear-gradient(#000 64%,transparent 86%);-webkit-mask-composite:source-in;mask-composite:intersect}
-.oba-head{align-self:flex-start;display:flex;flex-direction:column;align-items:center;gap:10px;width:58%;margin:clamp(34px,12vw,56px) 0 0 2%;text-align:center}
+.ob-acct{gap:0;padding:calc(env(safe-area-inset-top,0px) + 16px) 16px calc(env(safe-area-inset-bottom,0px) + min(74vw,355px))}
+.ob-acct .obl-top{top:0;-webkit-mask-image:linear-gradient(#000 80%,transparent);mask-image:linear-gradient(#000 80%,transparent)}
+.ob-acct .obl-mid{top:min(46vw,220px);-webkit-mask-image:linear-gradient(transparent,#000 18%,#000 70%,transparent);mask-image:linear-gradient(transparent,#000 18%,#000 70%,transparent)}
+.oba-head{align-self:flex-start;display:flex;flex-direction:column;align-items:center;gap:10px;width:56%;margin:clamp(30px,10vw,50px) 0 0 3%;text-align:center}
 .ob-acct .oba-head h1{text-transform:none;letter-spacing:.01em;font-family:var(--font-serif);font-weight:600;font-size:clamp(1.7rem,8.6vw,2.3rem);line-height:1.04;color:#F3E2B4;text-shadow:0 2px 10px rgba(0,0,0,.85)}
 .oba-head .ob-rule{width:90%}
 .oba-head .ob-lead{font-size:clamp(.95rem,4.2vw,1.08rem);color:#F1E2BC;text-shadow:0 1px 6px #000}
@@ -1358,7 +1350,7 @@ body.has-nav:not([data-sec=home]) #app::after{content:'';position:fixed;z-index:
 .ob-panel .btn,.ob-signin .btn{box-shadow:inset 0 0 0 1px rgba(233,200,142,.55),0 0 0 1px var(--k-gold-deep),0 4px 12px rgba(var(--k-shadow-rgb),.3)}
 
 /* 4. Welcome Back: the crown of night with its crescent, the form on the open parchment, the sunset rising below */
-.ob-signin{gap:10px;padding-top:calc(env(safe-area-inset-top,0px) + min(38vw,180px));padding-bottom:calc(env(safe-area-inset-bottom,0px) + min(52vw,250px))}
+.ob-signin{gap:10px;padding-top:calc(env(safe-area-inset-top,0px) + min(40vw,190px));padding-bottom:calc(env(safe-area-inset-bottom,0px) + min(88vw,420px))}
 .ob-signin h1{font-family:var(--font-serif);font-weight:500;font-size:clamp(2.1rem,10vw,2.6rem);line-height:1.05;color:var(--k-ink)}
 .ob-signin .ob-lead{max-width:280px;color:var(--k-ink-soft)}
 .ob-signin .ob-rule.lone{margin-bottom:-4px}
@@ -1366,8 +1358,7 @@ body.has-nav:not([data-sec=home]) #app::after{content:'';position:fixed;z-index:
 .ob-signin .ob-mail{margin-top:0}
 .ob-intro>.ibtn,.ob-signin>.ibtn{color:#F1DFB4;filter:drop-shadow(0 1px 3px rgba(0,0,0,.8))}
 .ob .ob-lead{text-wrap:balance}
-/* a soft pool of night behind the account title, so its letters never sit on a lily */
 .oba-head{position:relative}
-.oba-head::before{content:'';position:absolute;inset:-14% -12% -8%;z-index:-1;pointer-events:none;background:radial-gradient(closest-side,rgba(var(--k-night-rgb),.88),rgba(var(--k-night-rgb),.55) 60%,transparent)}
+.oba-head::before{content:none}
 .ob-acct{background:var(--k-midnight)}
 .ob-panel .field>label,.ob-signin .field>label{font-family:var(--font-serif);font-weight:700;font-size:1.02rem;color:var(--k-ink)}

diff --git a/public/app.js b/public/app.js
@@ -401,21 +401,20 @@ const pwField=(id,label,ph,auto)=>`<div class="field"><label for="${id}">${label
 const obBg=(...layers)=>`<div class="obg" aria-hidden="true">${layers.map(([id,cls,pri])=>ui(id,'obl '+cls,'',pri!==false)).join('')}</div>`;
 // the fine gold rule with a star at its centre, as the mockups set under their titles and above their last links
 const obRule=(cls='')=>`<span class="ob-rule${cls?' '+cls:''}" aria-hidden="true">${Kit.icon('star')}</span>`;
-// the golden sunset rising from the foot of the page, and the crown of night with its crescent over a parchment page
-const SUNSET=['home-energy','obl-foot',false],CROWN=['home-sky','obl-crown'];
+// the golden sunset rising from the foot of every page, and the crown of night with its crescent over a parchment page
+const SUNSET=['ob-sunset','obl-foot',false],CROWN=['ob-crescent','obl-crown'];
 const OB_FEATS=[['sun','Personalised horoscopes','Daily, weekly, monthly and beyond'],['tarot','Tarot and daily Whispers','Guidance for your journey'],['moon','Astrology and numerology','Discover your unique blueprint'],['compass','Cosmic calendar','Follow the energy of the universe'],['star','Dream interpretation','Decode the messages within'],['kassandra','Kassandra, your AI oracle','Always here for your questions']];
 views.welcome=()=>{
  const st=V.ob,s=V.joinSign?sg(V.joinSign):null;
- if(st==='intro')return `<div class="ob ob-paper ob-intro">${obBg(CROWN,SUNSET)}${iconBtn('back','data-act="obstep" data-to="welcome"','Back')}
-  <h1 class="cz">Ancient Wisdom<br>for Modern Life</h1>${obRule()}<p class="ob-lead">Explore the cosmos and discover a deeper understanding of yourself.</p>
-  <div class="obi-art">${ui('welcome','obi-i','',true)}</div>
+ if(st==='intro')return `<div class="ob ob-paper ob-intro">${obBg(SUNSET)}${iconBtn('back','data-act="obstep" data-to="welcome"','Back')}
+  <div class="obi-top">${ui('ob-wisdom','obi-w','',true)}<div class="obi-head"><h1 class="cz">Ancient Wisdom<br>for Modern Life</h1>${obRule()}<p class="ob-lead">Explore the cosmos and discover a deeper understanding of yourself.</p></div></div>
   <ul class="obi-list">${OB_FEATS.map(([i,t,d])=>`<li><span class="obi-med">${i==='kassandra'?ui('kassandra','obi-k'):Kit.icon(i)}</span><span><strong>${t}</strong><span>${d}</span></span></li>`).join('')}</ul>
   ${obRule()}<button class="btn" data-act="obnext" data-to="sign">Let’s Begin →</button></div>`;
- if(st==='sign')return `<div class="ob ob-dark ob-sign">${obBg(['ob-welcome','obl-top'],['home-vines','obl-mid',false],SUNSET)}${STARS}${iconBtn('back','data-act="obstep" data-to="intro"','Back')}
+ if(st==='sign')return `<div class="ob ob-dark ob-sign">${obBg(['ob-sky','obl-top'],SUNSET)}${STARS}${iconBtn('back','data-act="obstep" data-to="intro"','Back')}
   <h1>What’s your<br>zodiac sign?</h1><p class="ob-lead">Choose your sun sign to personalise your cosmic experience.</p>
   <div class="zgrid${s?' has':''}" role="radiogroup" aria-label="Your zodiac sign">${SIGNS.map(x=>`<button class="zg-s" role="radio" aria-checked="${V.joinSign===x.id}" data-sign="${x.id}" aria-label="${x.name}, ${x.dates}">${ui('zm-'+x.id,'zg-m')}<span>${x.name}</span></button>`).join('')}</div>
   <details class="ob-bday"${V.bdayOpen?' open':''}><summary>Not sure of your sign?</summary><div class="field"><label for="obd">Your birthday</label><input type="date" id="obd"></div>${s&&V.bdayOpen?`<p class="ob-hint" role="status">That makes you ${s.name}. Tap ${s.name} to continue.</p>`:''}</details></div>`;
- if(st==='account')return `<div class="ob ob-dark ob-acct">${obBg(['home-vines','obl-top'],['welcome','obl-woman'],SUNSET)}${STARS}${iconBtn('back','data-act="obstep" data-to="sign"','Back')}
+ if(st==='account')return `<div class="ob ob-dark ob-acct">${obBg(['ob-woman','obl-top'],['home-vines','obl-mid',false],SUNSET)}${STARS}${iconBtn('back','data-act="obstep" data-to="sign"','Back')}
   <div class="oba-head"><h1>Create Your<br>Account</h1>${obRule()}<p class="ob-lead">Join Kosmia and start your journey of self-discovery.</p></div>
   <form id="authForm" class="ob-fields ob-panel" novalidate><div class="field"><label for="em">Email address</label><div class="inp">${IC.mail}<input id="em" type="email" autocomplete="email" inputmode="email" placeholder="you@example.com" value="${esc(S.email)}" required></div></div>
   ${pwField('pw','Create a password','At least 8 characters','new-password')}${pwField('pw2','Confirm password','Type it again','new-password')}

diff --git a/docs/ONBOARDING-V2.md b/docs/ONBOARDING-V2.md
@@ -33,12 +33,15 @@ Each page paints its art behind its content in one layer (`.obg`). The layer sit
 
 | Layer | Art | Used on |
 |---|---|---|
-| Sky with the sun and crescent | `ob-welcome` (top only) | Zodiac |
-| Crown of night with crescent and lilies | `home-sky`, masked into the parchment | Ancient Wisdom, Welcome Back, Check your inbox, Reset |
-| Botanical night | `home-vines` | Zodiac (middle), Account (top, left border faded behind the title) |
-| Woman before the golden moon | `welcome` | Account (upper right); Ancient Wisdom (centrepiece in a window with no hard edges) |
-| Golden sunset over the lake | `home-energy`, its sky dissolving upward | The foot of every page |
+| Woman before the golden moon, title in a parchment cloud | `ob-wisdom` | Ancient Wisdom (the head of the page; the title and its line sit in the painted cloud) |
+| Sky with the sun, crescent and flower borders | `ob-sky` | Zodiac (from the top) |
+| Woman before the moon at the right, open sky at the left | `ob-woman` | Account (across the top; the title sits in the open sky) |
+| Botanical night | `home-vines` | Account (down the sides of the form) |
+| Crown of night with the crescent, opening into parchment | `ob-crescent` | Welcome Back, Check your inbox, Reset |
+| Golden sunset over the lake, lilies and roses | `ob-sunset`, shown as its lower band, its sky dissolving upward | The foot of every page |
 | Zodiac medallions | `zm-*`, unchanged | Zodiac |
+
+The sunset is shown in a band of fixed proportion at the page's foot (`min(96vw, 460px)`, cropped from the bottom). The band's top stays transparent before the sky fades in, and each page's bottom padding ends its text above the sunset's first light.
 
 **Small helpers:**
 - `obBg()`: the painted layers.
@@ -48,16 +51,19 @@ Each page paints its art behind its content in one layer (`.obg`). The layer sit
 
 **Selected sign:** a champagne ring and glow, a slight scale-up, and its name underlined, so the choice doesn't rely on colour alone. It is still a radio button with `aria-checked`.
 
-## New paintings: not made
+## The bespoke paintings
 
-Five bespoke paintings are scripted in `scripts/craft-atlas.mjs` but were not painted, because the OpenAI account had no credits left:
-- `ob-sunset`
-- `ob-sky`
-- `ob-woman`
-- `ob-wisdom`
-- `ob-crescent`
+Five paintings were made with `gpt-image-2` on 29 October 2026, each guided by a crop of its mockup (`scripts/craft-atlas.mjs`, ids below), then re-encoded for phones:
 
-The screens use the approved existing art instead. If credits are added, `node scripts/craft-atlas.mjs --refs <crops> --ids ob-sunset,ob-sky,ob-woman,ob-wisdom,ob-crescent` paints them, guided by crops of the mockups.
+| Painting | Size | Weight |
+|---|---|---|
+| `ob-wisdom` | 1024×1024 | 271 KB |
+| `ob-sky` | 900×1350 | 310 KB |
+| `ob-woman` | 1200×800 | 237 KB |
+| `ob-crescent` | 1200×800 | 221 KB |
+| `ob-sunset` | 960×1440 | 378 KB |
+
+They replace the stand-ins used at first (`ob-welcome`, `home-sky`, `welcome` and `home-energy` on these pages), which stay in use elsewhere in the app.
 
 ## Checks
 
@@ -80,7 +86,6 @@ The screens use the approved existing art instead. If credits are added, `node s
 
 ## Remaining differences from the mockups
 
-- **Woman's outfit:** she wears the approved art's red shawl, not the mockup's ivory blouse. On the account page she sits to the right as in the mockup, but she is the same painting as on the introduction.
-- **Sunset:** it is the existing Cosmic Energy landscape, with palm fronds at its top corners, rather than the mockups' lily-framed sunset.
+- **Same story, new paintings:** the paintings follow the mockups' compositions but are new paintings, not copies, so details differ: the exact pose, the flowers and how far the town reaches.
 - **Feature rows:** the rows on Ancient Wisdom have no chevrons. The rows are not links, and a chevron would promise a tap that does nothing.
-- **Zodiac height:** the zodiac page is a little taller than one screen at 390×844, so the sunset sits just below the fold.
+- **Height:** the zodiac and account pages are a little taller than one 390×844 screen, so the lowest part of the sunset sits just below the fold. Welcome Back fits on one screen with the sunset in view.

diff --git a/docs/asset-manifest.md b/docs/asset-manifest.md
@@ -7,8 +7,8 @@ their space before they load.
 
 | | Count |
 |---|---|
-| Images | 410 |
-| In use, provisional | 366 |
+| Images | 415 |
+| In use, provisional | 371 |
 | Unused | 44 |
 | Missing (listed below) | 10 groups |
 
@@ -33,8 +33,13 @@ their space before they load.
 | `public/art/atlas/ce-vignette.webp` | 480×720 | 2:3 | no | 102 | provisional |  |
 | `public/art/atlas/home-garden.webp` | 720×1080 | 2:3 | no | 207 | provisional |  |
 | `public/art/atlas/home-lake.webp` | 720×1080 | 2:3 | no | 160 | provisional |  |
+| `public/art/atlas/ob-crescent.webp` | 1200×800 | 3:2 | no | 221 | provisional |  |
 | `public/art/atlas/ob-final.webp` | 1200×800 | 3:2 | no | 305 | provisional |  |
+| `public/art/atlas/ob-sky.webp` | 900×1350 | 2:3 | no | 311 | provisional |  |
+| `public/art/atlas/ob-sunset.webp` | 960×1440 | 2:3 | no | 378 | provisional |  |
 | `public/art/atlas/ob-welcome.webp` | 1024×1536 | 2:3 | no | 464 | provisional |  |
+| `public/art/atlas/ob-wisdom.webp` | 1024×1024 | 1:1 | no | 271 | provisional |  |
+| `public/art/atlas/ob-woman.webp` | 1200×800 | 3:2 | no | 238 | provisional |  |
 | `public/art/atlas/zm-aquarius.webp` | 400×400 | 1:1 | no | 49 | provisional |  |
 | `public/art/atlas/zm-aries.webp` | 400×400 | 1:1 | no | 53 | provisional |  |
 | `public/art/atlas/zm-cancer.webp` | 400×400 | 1:1 | no | 48 | provisional |  |
